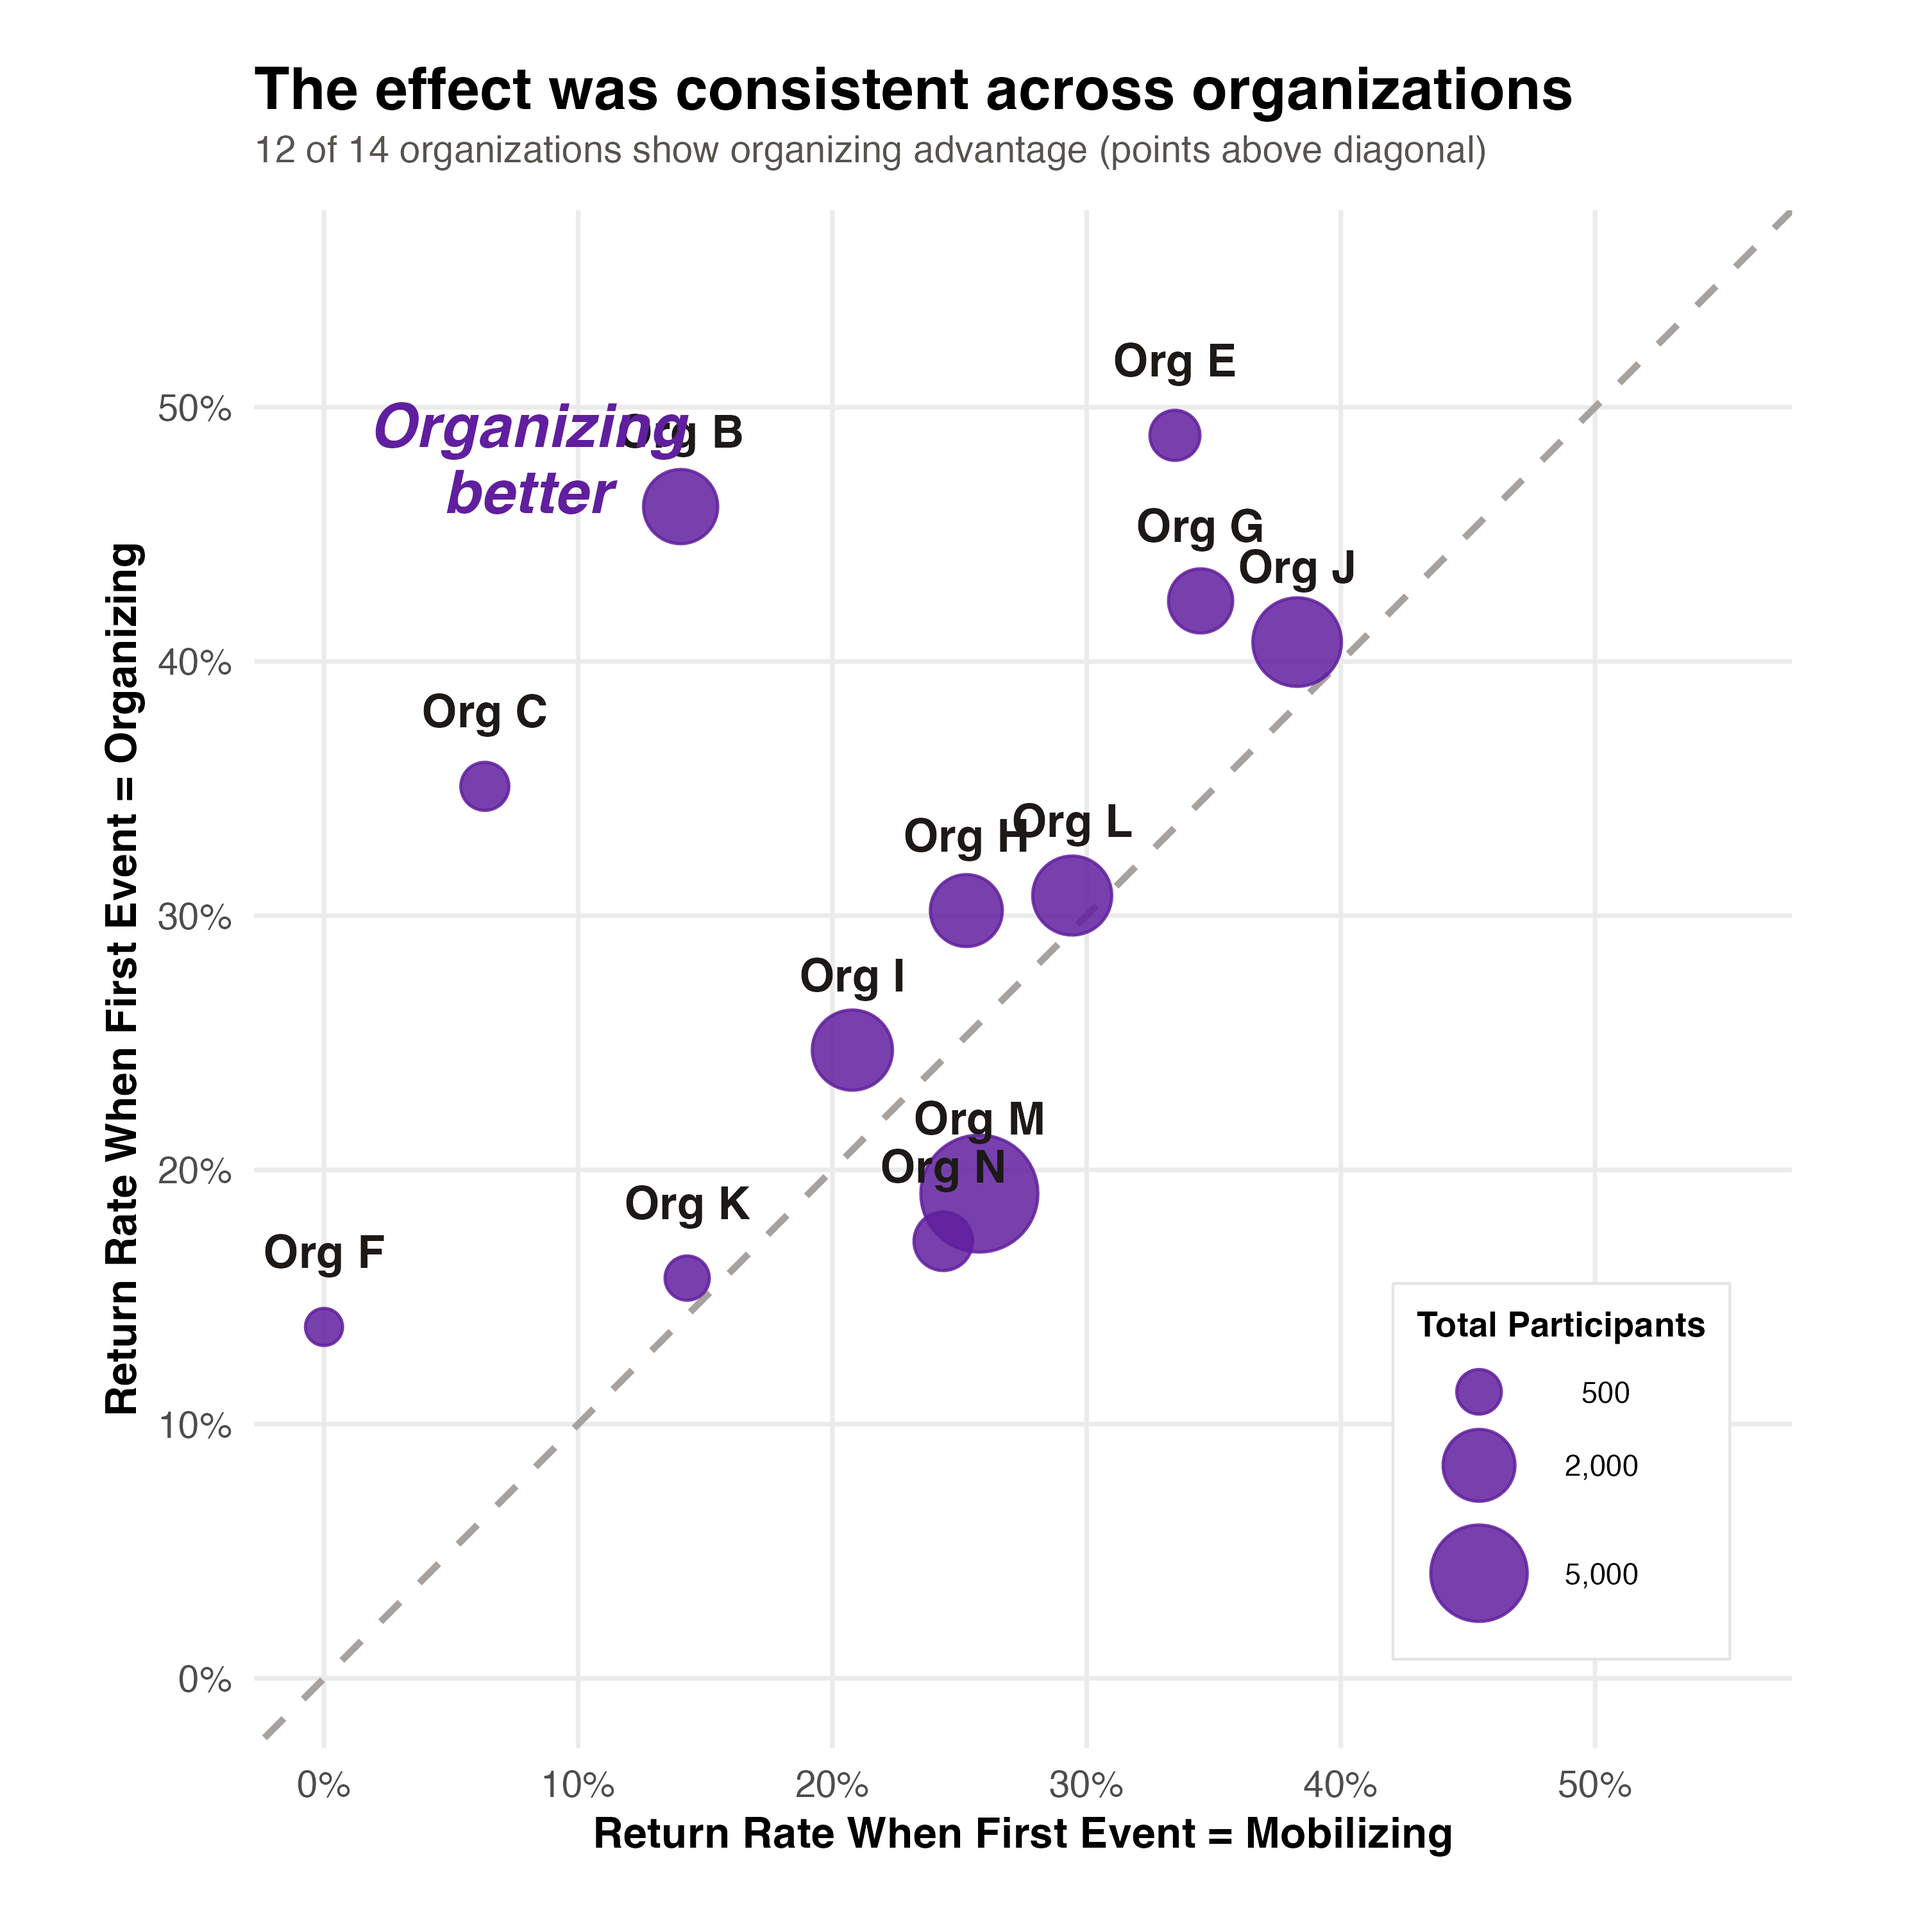
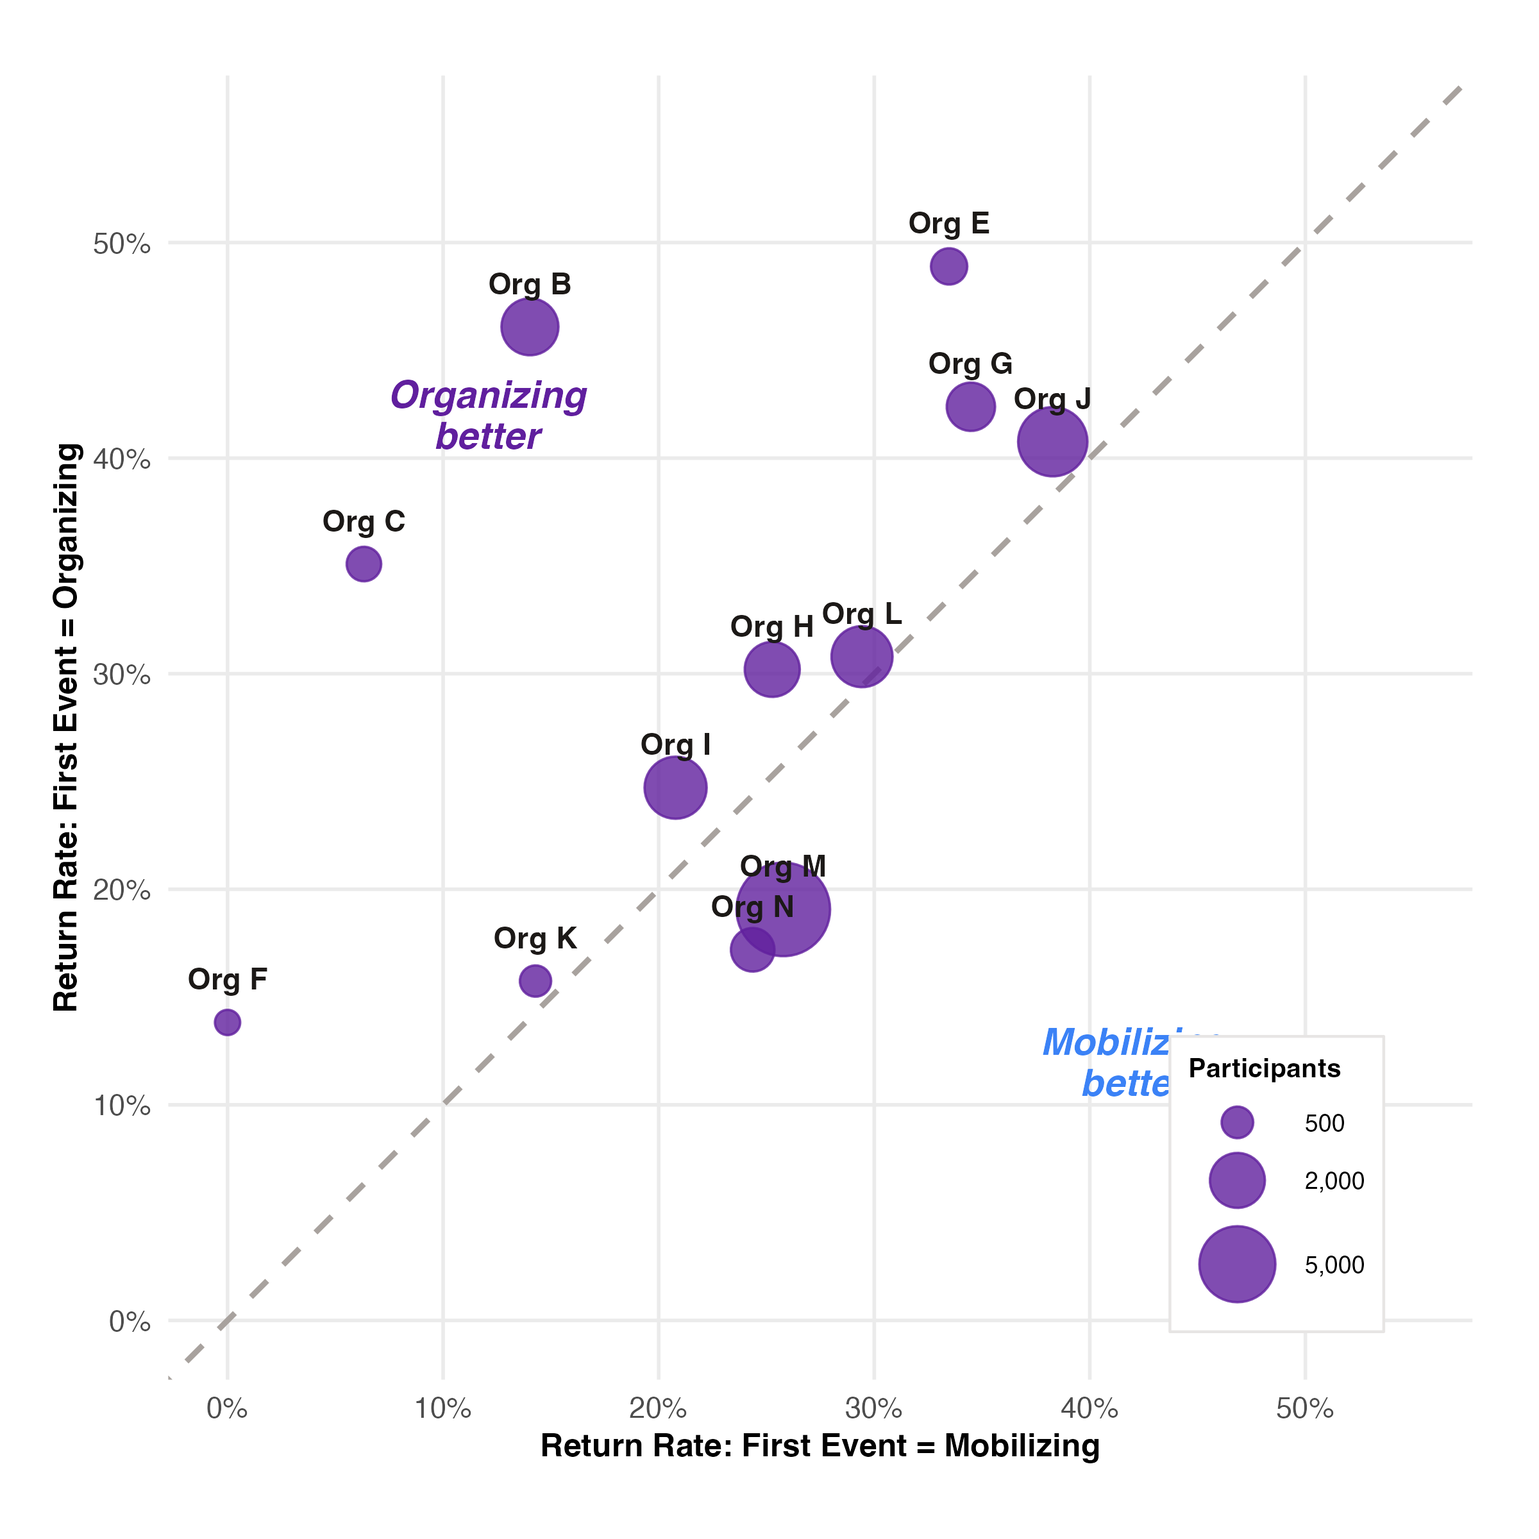
Fix slide 22 cards, slide 23 em dash, update charts
- Slide 22: Shorten second theory card text to reduce whitespace
- Slide 23: Replace em dash with "across" in limitations
- Regenerated bar chart and scatter plot with clean styling:
  - Percentages and n values inside bars
  - Proper aspect ratios (8x6 bar, 8x8 scatter)
  - Both "Organizing better" and "Mobilizing better" labels
  - Bubble legend with participant numbers

🤖 Generated with [Claude Code](https://claude.com/claude-code)

diff --git a/index.html b/index.html
@@ -1651,12 +1651,12 @@
                 <div class="theory-col" data-col="2">
                     <h3>Organizing vs. Mobilizing</h3>
                     <p class="label">Core Insight</p>
-                    <p>Depth matters more than breadth (Han; McAlevey; Ganz)</p>
+                    <p>Depth over breadth (Han; McAlevey; Ganz)</p>
                     <p class="label">Empirical Domain</p>
-                    <p>Logic of civic depth</p>
+                    <p>Civic depth</p>
                     <div class="extension">
                         <p class="label">Purple Line Extension</p>
-                        <p>Validated thresholds from longitudinal data</p>
+                        <p>Validated thresholds</p>
                     </div>
                 </div>
                 <div class="theory-col" data-col="3">
@@ -1690,7 +1690,7 @@
             <ul class="bullet-list" style="font-size: clamp(1rem, 1.5vw, 1.15rem); margin-top: 2rem;">
                 <li class="fragment">Organizational self-selection into data use agreements</li>
                 <li class="fragment">Measurement consistency across 38 organizations cannot be guaranteed</li>
-                <li class="fragment">Observational design (prospective, threshold non-linearity, cross-context validation — red/blue/purple states) reduces but does not eliminate confounding</li>
+                <li class="fragment">Observational design (prospective, threshold non-linearity, cross-context validation across red/blue/purple states) reduces but does not eliminate confounding</li>
                 <li class="fragment">Generalizability to unions, faith communities, and other forms remains open</li>
             </ul>
         </div>
